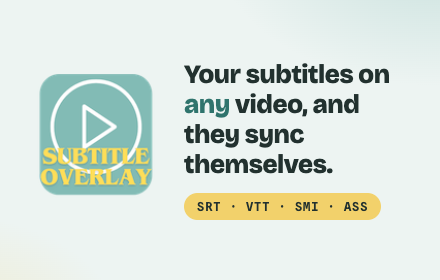
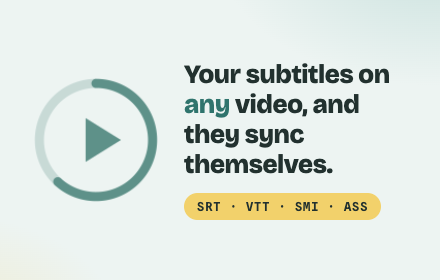
Bring the Subtitle Overlay page up to what 1.7.0 actually is
The logo is the redrawn plated mark. The screenshots are recaptured from
the 1.7.0 build, so the popup and the sync panel show the interface that
ships rather than the one from July.

The privacy policy was the larger gap: the published page still described
v1.4.0, from before Smart Sync existed. It said nothing about capturing
the tab's audio, the voice-activity model download, Chrome's on-device
speech packs, or the Gumroad licence check, all of which the extension
now does. It also did not mention that network services see an IP address
and that PostHog derives approximate location from it. This is the
PRIVACY.md draft that ships with 1.7.0, in the page's own markup.

Changed region(s): [[0.0591, 0.2571, 0.3841, 0.7429]]

diff --git a/docs/subtitle-overlay/privacy.html b/docs/subtitle-overlay/privacy.html
@@ -3,7 +3,7 @@
 <head>
   <meta charset="UTF-8">
   <meta name="viewport" content="width=device-width, initial-scale=1">
-  <title>Privacy Policy — Subtitle Overlay</title>
+  <title>Privacy Policy, Subtitle Overlay</title>
   <meta name="description" content="Privacy policy for the Subtitle Overlay Chrome extension. Local-first by design.">
   <meta name="robots" content="index, follow">
   <meta name="theme-color" content="#0a2a23">
@@ -164,7 +164,7 @@
       margin: 0 auto;
     }
 
-    /* ============ MAIN — PRINTED CONTENT ============ */
+    /* ============ MAIN, PRINTED CONTENT ============ */
     main {
       max-width: 760px;
       margin: 0 auto;
@@ -278,7 +278,7 @@
       background: var(--yellow-soft);
     }
 
-    /* "Never collect" — highlighted manuscript box */
+    /* "Never collect", highlighted manuscript box */
     .never-block {
       background:
         linear-gradient(135deg, rgba(255,222,89,0.20) 0%, rgba(255,222,89,0.06) 100%);
@@ -406,8 +406,8 @@
     <p class="hero-sub">A summary of what data the extension stores, what (very little) it sends, and what it never touches.</p>
 
     <div class="hero-meta">
-      <span class="pill pill-version">v1.4.0</span>
-      <span class="pill pill-date">Effective&nbsp;<strong>2026-05-25</strong></span>
+      <span class="pill pill-version">v1.7.0</span>
+      <span class="pill pill-date">Effective&nbsp;<strong>2026-09-13</strong></span>
     </div>
   </div>
 </header>
@@ -429,10 +429,15 @@
     </div>
     <p>The extension uses <code>chrome.storage.local</code> (Chrome's per-extension local storage) to remember:</p>
     <ul>
-      <li><strong>Your settings</strong> — appearance, position, keyboard preferences, toggles.</li>
-      <li><strong>Downloaded subtitles</strong> — subtitle files you have downloaded through the built-in OpenSubtitles search.</li>
-      <li><strong>Auto-restore cache</strong> — for each video you load subtitles on, we store the subtitle content and your sync offset so the extension can restore them the next time you visit the same video. The cache is keyed by a <strong>SHA-256 hash</strong> of the page origin + path + rounded video duration; the original URL is <strong>not</strong> stored. The cache is capped at 5&nbsp;MB and oldest entries are evicted automatically.</li>
+      <li><strong>Your settings:</strong> appearance, position, keyboard preferences, toggles.</li>
+      <li><strong>Downloaded subtitles:</strong> subtitle files you have downloaded through the built-in OpenSubtitles search.</li>
+      <li><strong>Auto-restore cache:</strong> for each video you load subtitles on, we store the subtitle content and your sync offset so the extension can restore them the next time you visit the same video. The cache is keyed by a <strong>SHA-256 hash</strong> of the page origin + path + query + rounded video duration; the original URL is <strong>not</strong> stored. The cache is capped at 8&nbsp;MB and oldest entries are evicted automatically.</li>
+      <li><strong>Optional Smart Sync model:</strong> only after you click Install, a pinned 2.3&nbsp;MB voice-activity model is downloaded, integrity-checked, and stored in the extension's Cache Storage. Every other feature works without it.</li>
+      <li><strong>Smart Sync trial and setup state:</strong> remaining trial uses, anonymous attempt identifiers used to avoid duplicate charges, and pending model-install status.</li>
+      <li><strong>Pro licence:</strong> the key, the sale identifier when one is returned, and the last verification time.</li>
+      <li><strong>Optional browser speech packs:</strong> Chrome manages this on-device speech data itself, separately from the extension's model cache.</li>
     </ul>
+    <p>For refresh recovery, <code>chrome.storage.session</code> also holds the current tab's parsed subtitles, timing adjustments, interruption state and video identity in browser memory, capped at 2&nbsp;MB per snapshot. A subtitle-language correction, if you make one, is kept for that tab and video in the same memory storage. These records are removed when the tab closes and do not survive a browser restart. Turning off auto-restore disables subtitle snapshot restoration. No session subtitle text or URL identity is sent to analytics or synchronised to another device.</p>
     <p>All of the above stays on your device. None of it is transmitted anywhere unless you explicitly perform an action that requires a network request (see below).</p>
   </section>
 
@@ -442,31 +447,45 @@
       <h2>Data sent to external services</h2>
     </div>
 
-    <h3>1. OpenSubtitles.com — only when you search</h3>
-    <p>When you type a query in the Subtitles tab and press search, the extension sends your search text and your OpenSubtitles API key (if configured) to <code>api.opensubtitles.com</code> so it can return matching subtitles. See <a href="https://www.opensubtitles.com/en/privacy" target="_blank" rel="noopener noreferrer">OpenSubtitles' own privacy policy</a> for how they handle that request.</p>
+    <h3>1. OpenSubtitles.com: search, suggestions and downloads</h3>
+    <p>When you search, or use automatic subtitle suggestions on supported sites, the extension sends your query or the detected title, the selected filters and the extension's API key to <code>api.opensubtitles.com</code>. Downloading sends the selected subtitle file identifier and fetches the file that comes back. Both are subject to OpenSubtitles' own limits. See <a href="https://www.opensubtitles.com/en/privacy" target="_blank" rel="noopener noreferrer">OpenSubtitles' privacy policy</a>.</p>
 
-    <h3>2. Anonymous usage analytics — opt-out via Settings</h3>
-    <p>If you leave the "Share anonymous usage data" toggle enabled (Settings&nbsp;→&nbsp;General), the extension sends anonymous product analytics to <a href="https://posthog.com" target="_blank" rel="noopener noreferrer">PostHog</a> (US/EU region). This is used to understand which features matter to users and prioritize future work. We send:</p>
+    <h3>2. Anonymous usage analytics: opt out via Settings</h3>
+    <p>If you leave the "Share anonymous usage data" toggle enabled (Settings&nbsp;&rarr;&nbsp;General), the extension sends anonymous product analytics to <a href="https://posthog.com" target="_blank" rel="noopener noreferrer">PostHog</a> (US/EU region). This is used to understand which features matter and what to build next. We send:</p>
     <ul>
-      <li><strong>Hashed URL</strong> (SHA-256 of the page URL) — lets us see whether a user returns to the same site without revealing which site or which video.</li>
-      <li><strong>Feature events</strong> — e.g. "subtitle loaded", "sync adjusted", "auto-restore accepted", "side panel opened". No content, no input text.</li>
-      <li><strong>Anonymous installation ID</strong> generated locally; not tied to any account.</li>
+      <li><strong>Hashed URL</strong> (SHA-256 of the page URL), lets us see whether someone returns to the same video without revealing the URL.</li>
+      <li><strong>Site hostname</strong> (for example <code>example.com</code>, never the path or query) on subtitle load and failure events, so we can find sites the extension breaks on.</li>
+      <li><strong>Feature events:</strong> e.g. "subtitle loaded", "sync adjusted", "auto-restore accepted", "side panel opened". No content, no input text.</li>
+      <li><strong>Random installation ID</strong> generated locally; not tied to a named account.</li>
+      <li><strong>Operational measurements:</strong> extension version, selected matching engine, language-pack status, error category, elapsed time, trial usage and download allowance. These never include recognised words or subtitle text.</li>
     </ul>
-    <p>You can disable analytics at any time in Settings — once disabled, no analytics requests are made.</p>
+    <p>Network services receive the connection IP address. PostHog can retain it and derive approximate location fields, and such fields are present in the current project. A random installation ID does not make those records fully anonymous. We do not use session replay and never upload recordings of the page.</p>
+    <p>You can disable analytics at any time in Settings. Opting out may send one opt-out event; behavioural analytics stop after that.</p>
+
+    <h3>3. Smart Sync model: only when you install it</h3>
+    <p>The voice-activity model is downloaded from <code>fivestar1103.github.io/subtitle-overlay/models/silero_vad.onnx</code>. The optional permissions also cover <code>kuiperbelt.site</code> for a planned domain redirect. Chrome asks for model-host access when setup needs it, and the downloaded bytes are checked against an expected size and SHA-256 digest.</p>
+    <p>On supported browsers an optional setup step can ask Chrome to install local speech-recognition data. Chrome manages those downloads. Recognition explicitly requires <code>processLocally=true</code>; if local recognition cannot run, the extension falls back to voice-activity detection. It never switches to cloud speech recognition.</p>
+    <p>When you start Smart Sync, the extension processes part of the current tab's audio in memory. Audio samples and recognised words are never uploaded and never appear in usage analytics. Normal use saves no captured audio.</p>
+
+    <h3>4. Gumroad licence check: activation and periodic verification</h3>
+    <p>Activating Pro sends the licence key and product identifier to <code>api.gumroad.com</code>. Chrome asks for the optional origin permission when needed. The extension stores the key, the sale identifier if one is returned, and the verification time locally. A verification is trusted for 24 hours. A network failure keeps the key but may pause Pro until a check succeeds. Names and email addresses returned by Gumroad are not stored in the licence record or sent to PostHog. <a href="https://gumroad.com/privacy" target="_blank" rel="noopener noreferrer">Gumroad's privacy policy</a> covers the purchase data they hold.</p>
+
+    <h3>5. Feedback: only when you open and submit the form</h3>
+    <p>The popup and the in-video side panel link to a PostHog-hosted feedback form. It sends only the answers you type. A site or player name is requested when you report an incompatibility; contact information is optional.</p>
   </section>
 
   <section class="policy" id="never">
     <div class="section-head">
       <span class="section-num">03</span>
-      <h2>What we never collect</h2>
+      <h2>What we never send to product analytics</h2>
     </div>
     <div class="never-block">
-      <span class="never-tagline">We never collect</span>
+      <span class="never-tagline">We never send</span>
       <ul>
-        <li>The <strong>text content of any subtitle file</strong> — neither files you upload nor files you download.</li>
-        <li><strong>Raw URLs</strong> of pages you visit. URLs are SHA-256 hashed before they leave your device, and the unhashed URL is never logged or transmitted.</li>
-        <li><strong>Video content</strong>, audio, screenshots, or anything from the page DOM other than the active video's duration.</li>
-        <li><strong>Personal information</strong> such as name, email, address, payment info, or account identifiers.</li>
+        <li>The <strong>text content of any subtitle file:</strong> neither files you upload nor files you download.</li>
+        <li><strong>Full page URLs</strong>, paths, query strings or fragments. Analytics may carry the hostname and a one-way SHA-256 video hash, as described above.</li>
+        <li><strong>Video content</strong>, audio, screenshots or page DOM content. Smart Sync audio exists only in memory during a sync run you started.</li>
+        <li><strong>Names, email addresses or payment details.</strong> A licence key goes to Gumroad for verification; optional feedback may carry contact information you chose to give. IP data is described above.</li>
         <li><strong>Browsing history</strong> outside of subtitles you actively load.</li>
       </ul>
     </div>
@@ -478,9 +497,12 @@
       <h2>Permissions</h2>
     </div>
     <ul>
-      <li><code>activeTab</code>, <code>scripting</code> — to inject the subtitle overlay into the page you're actively viewing.</li>
-      <li><code>storage</code> — for the local data described above.</li>
+      <li><code>activeTab</code>, <code>scripting:</code> to inject the subtitle overlay into the page you're actively viewing.</li>
+      <li><code>storage:</code> for the local data described above.</li>
+      <li><code>tabCapture</code>, <code>offscreen:</code> to process the current tab's audio locally after you press Smart Sync.</li>
       <li><code>host_permissions</code> for <code>api.opensubtitles.com</code> (subtitle search) and <code>us.i.posthog.com</code>&nbsp;/&nbsp;<code>eu.i.posthog.com</code> (analytics, if enabled).</li>
+      <li>Optional model-host permissions for <code>fivestar1103.github.io</code> and <code>kuiperbelt.site</code>, requested when model setup needs them.</li>
+      <li>Optional permission for <code>api.gumroad.com</code>, requested only when you activate a Pro licence key you typed yourself.</li>
     </ul>
   </section>
 
@@ -490,9 +512,10 @@
       <h2>Your controls</h2>
     </div>
     <ul>
-      <li><strong>Disable analytics:</strong> Settings&nbsp;→&nbsp;General&nbsp;→ toggle off "Share anonymous usage data".</li>
-      <li><strong>Disable auto-restore:</strong> Settings&nbsp;→&nbsp;General&nbsp;→ toggle off "Auto-restore subtitles".</li>
-      <li><strong>Clear all stored data:</strong> Visit <code>chrome://extensions</code>, find Subtitle Overlay, click "Details"&nbsp;→&nbsp;"Extension options" or remove and reinstall the extension.</li>
+      <li><strong>Disable analytics:</strong> Settings&nbsp;&rarr;&nbsp;General&nbsp;&rarr; toggle off "Share anonymous usage data".</li>
+      <li><strong>Disable auto-restore:</strong> Settings&nbsp;&rarr;&nbsp;General&nbsp;&rarr; toggle off "Auto-restore subtitles".</li>
+      <li><strong>Disable Smart Sync:</strong> Settings&nbsp;&rarr;&nbsp;General&nbsp;&rarr; toggle off "Smart Sync". Nothing listens to a tab while this is off, and the feature stops being offered.</li>
+      <li><strong>Remove extension-local data:</strong> remove the extension in <code>chrome://extensions</code>. Downloaded items and the voice-activity model can also be removed from their own controls in the extension. Browser-managed speech packs are separate and follow Chrome's controls.</li>
     </ul>
   </section>
 
@@ -523,7 +546,7 @@
 
 <footer>
   <div class="footer-inner">
-    <div class="footer-brand">Subtitle Overlay — Privacy Policy v1.4.0</div>
+    <div class="footer-brand">Subtitle Overlay, Privacy Policy v1.4.0</div>
     <nav class="footer-links" aria-label="Footer">
       <a href="https://buymeacoffee.com/hwano" target="_blank" rel="noopener noreferrer">☕ Buy me a coffee</a>
       <a href="https://chromewebstore.google.com/" target="_blank" rel="noopener noreferrer">Chrome Web Store</a>
